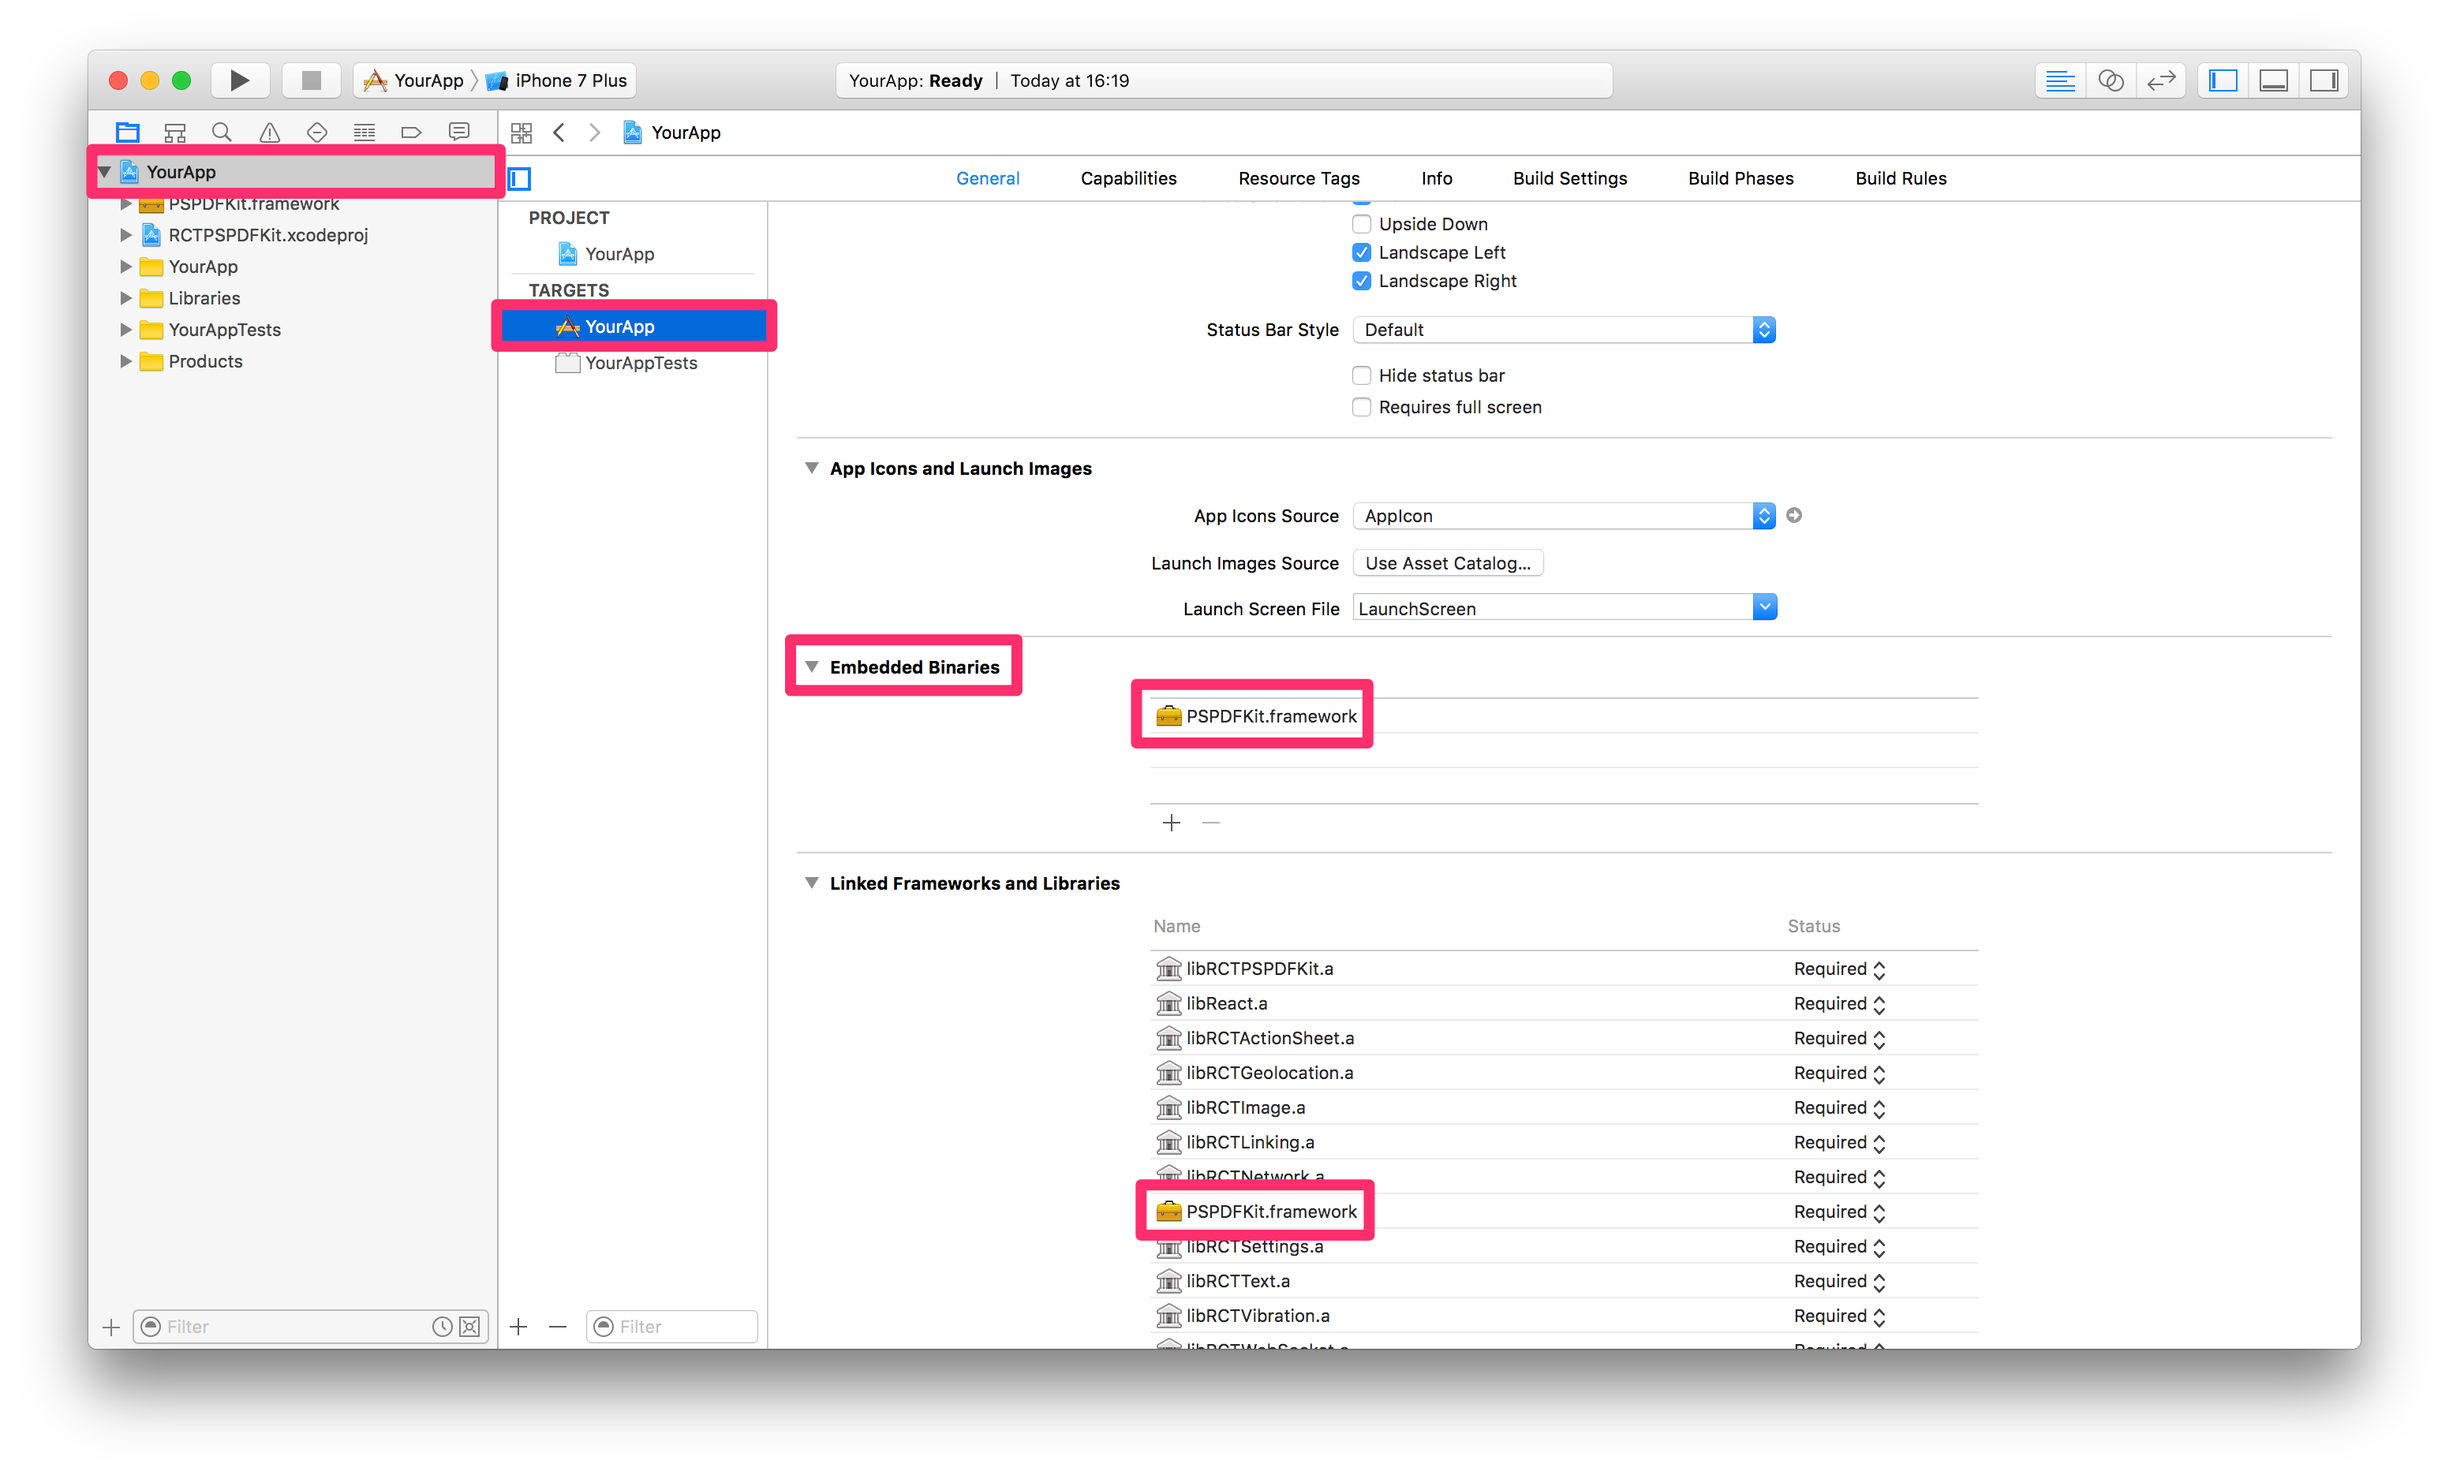
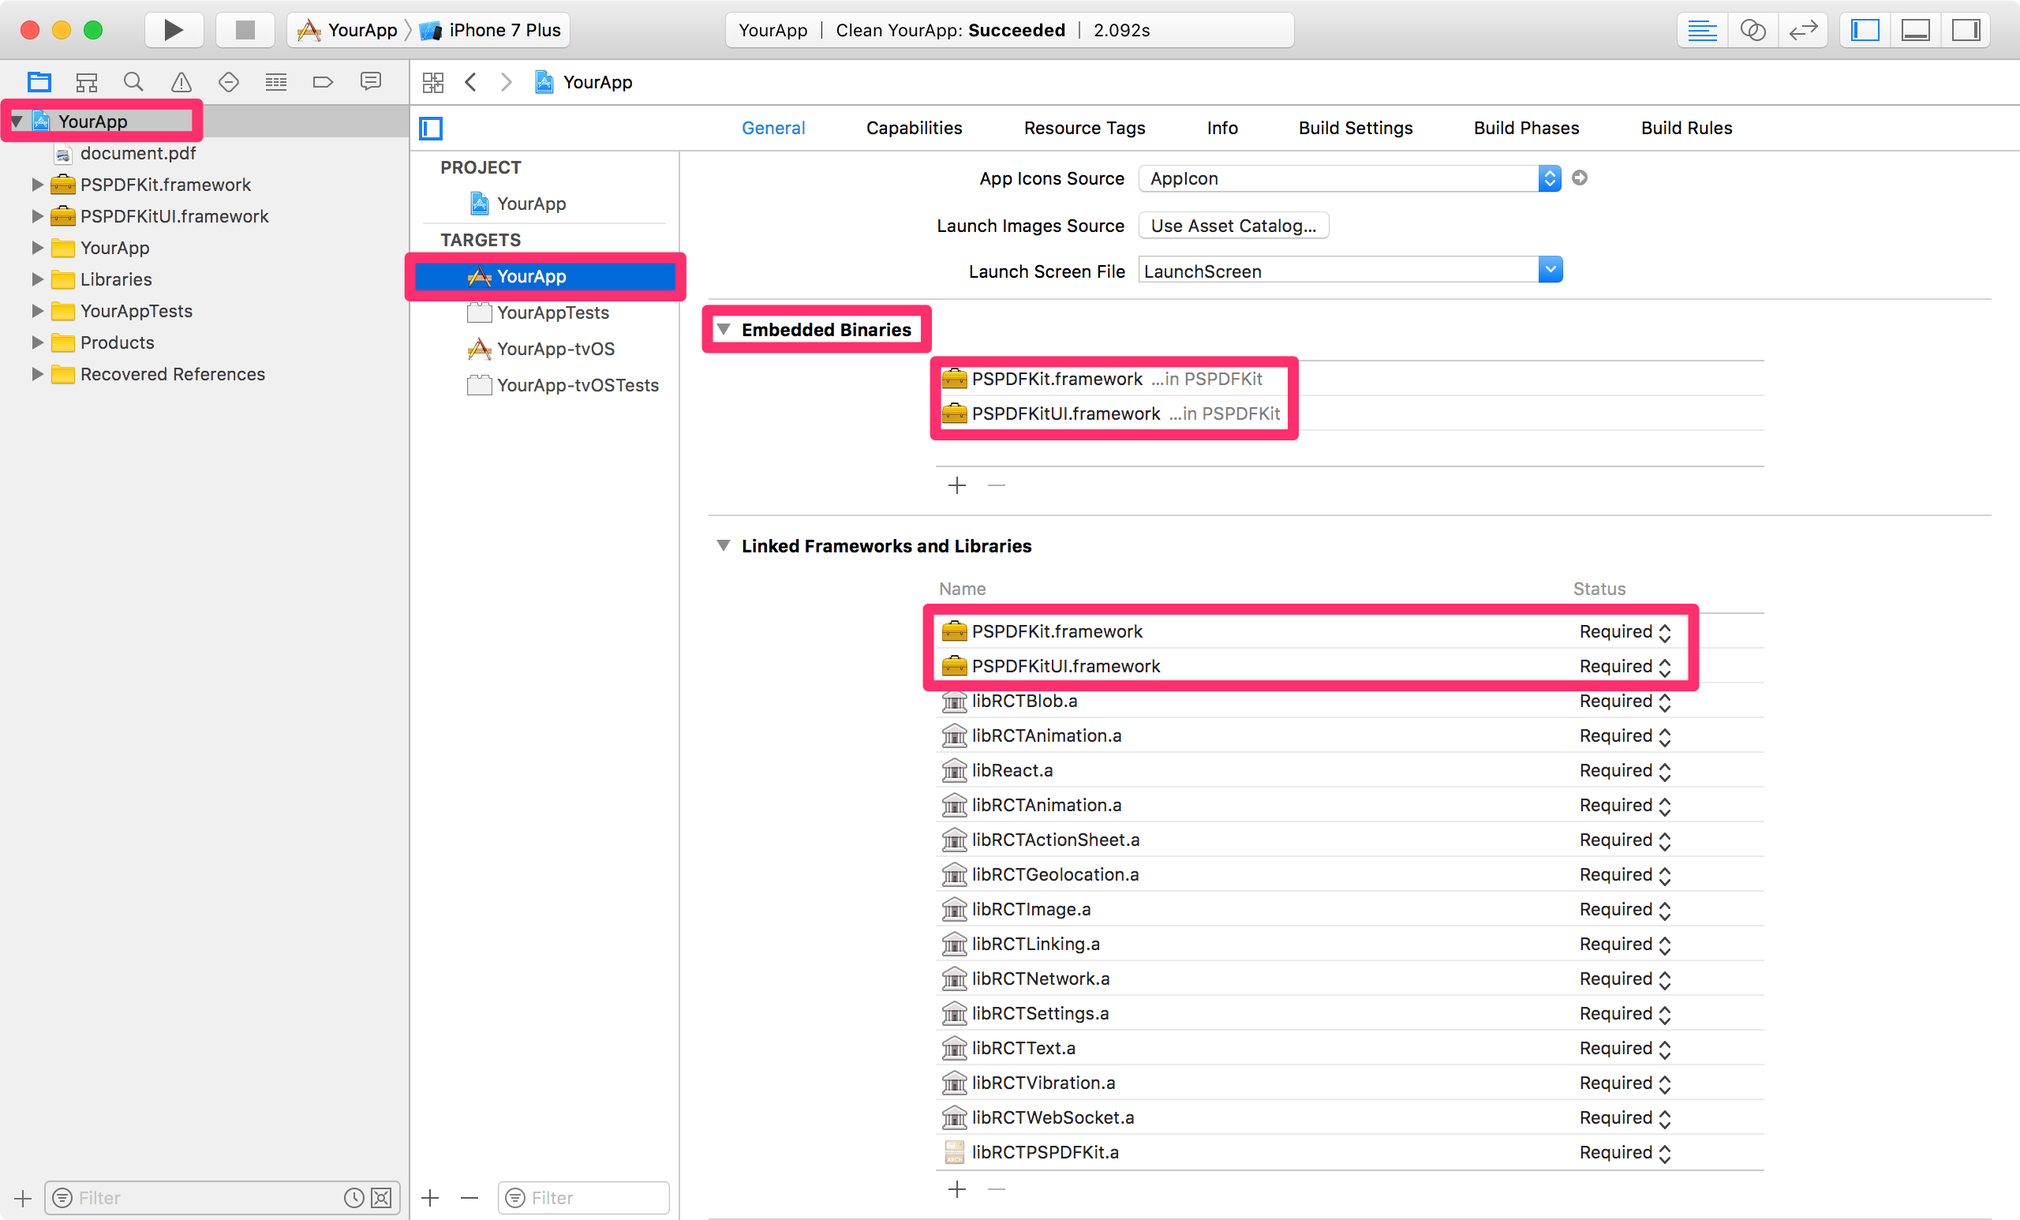
Update integration guides and screenshots

diff --git a/README.md b/README.md
@@ -5,22 +5,22 @@ See our [announcement blog post](https://pspdfkit.com/blog/2016/react-native-mod
 ### iOS
 
 #### Requirements
-- Xcode 8.3.3
-- PSPDFKit >= 6.9.3
+- Xcode 9
+- PSPDFKit >= 7.0.0
 - react-native >= 0.48.1
 
 #### Getting Started
 
 **Note:** If you want to integrate PSPDFKit using CocoaPods, use [these instructions](ios/cocoapods.md) instead.
 
-Let's create a simple app that integrates `PSPDFKit.framework` and uses the `react-native-pspdfkit` module.
+Let's create a simple app that integrates PSPDFKit and uses the `react-native-pspdfkit` module.
 
 1. Make sure `react-native-cli` is installed: `yarn global add react-native-cli`
 2. Create the app with `react-native init YourApp`.
 3. Step into your newly created app folder: `cd YourApp`
 4. Install `react-native-pspdfkit` from GitHub: `yarn add github:PSPDFKit/react-native`
 5. Link module `react-native-pspdfkit`: `react-native link react-native-pspdfkit` 
-6. Create the folder `ios/PSPDFKit` and copy `PSPDFKit.framework` into it.
+6. Create the folder `ios/PSPDFKit` and copy `PSPDFKit.framework` and `PSPDFKitUI.framework` into it.
 7. Open `ios/YourApp.xcodeproj` in Xcode: `open ios/YourApp.xcodeproj`
 8. Make sure the deployment target is set to 9.0 or higher:
 ![Deployment Target](screenshots/deployment-target.png)
@@ -28,7 +28,7 @@ Let's create a simple app that integrates `PSPDFKit.framework` and uses the `rea
 ![View Controller-Based Status Bar Appearance](screenshots/view-controller-based-status-bar-appearance.png)
 10. Link with the `libRCTPSPDFKit.a` static library (if `libRCTPSPDFKit.a` is already there but greyed out, delete it and link it again): 
 ![Linking Static Library](screenshots/linking-static-library.png)
-11. Embed `PSPDFKit.framework` by drag and dropping it into the "Embedded Binaries" section of the "YourApp" target (Select "Create groups"). This will also add it to the "Linked Framworks and Libraries" section:
+11. Embed `PSPDFKit.framework` and `PSPDFKitUI.framework` by drag and dropping it into the "Embedded Binaries" section of the "YourApp" target (Select "Create groups"). This will also add it to the "Linked Framworks and Libraries" section:
 ![Embedding PSPDFKit](screenshots/embedding-pspdfkit.png)
 12. Add a PDF by drag and dropping it into your Xcode project (Select "Create groups" and add to target "YourApp"). This will add the document to the "Copy Bundle Resources" build phase:
 ![Adding PDF](screenshots/adding-pdf.png)
@@ -102,7 +102,7 @@ PSPDFKit.present('document.pdf', {
   
 #### Running Catalog Project
 
-- Copy `PSPDFKit.framework` into the `PSPDFKit` directory.
+- Copy `PSPDFKit.framework` and `PSPDFKitUI.framework` into the `PSPDFKit` directory.
 - Install dependencies: `yarn install` in `samples/Catalog` directory. (Because of a [bug](https://github.com/yarnpkg/yarn/issues/2165) you may need to clean `yarn`'s cache with `yarn cache clean` before.)
 - Run the app with `react-native-cli`: `react-native run-ios`
 

diff --git a/ios/cocoapods.md b/ios/cocoapods.md
@@ -3,21 +3,21 @@
 ### CocoaPods integration
 
 #### Requirements
-- Xcode 8.3.3
-- PSPDFKit >=6.9.3
+- Xcode 9
+- PSPDFKit >=7.0.0
 - react-native >= 0.48.1
 - CocoaPods >= 1.3.1
 
 #### Getting Started
 
-Lets create a simple app that integrates `PSPDFKit.framework` using CocoaPods.
+Lets create a simple app that integrates PSPDFKit using CocoaPods.
 
 1. Make sure `react-native-cli` is installed: `yarn global add react-native-cli`
 2. Create the app with `react-native init YourApp`.
 3. Step into your newly created app folder: `cd YourApp`
 4. Install `react-native-pspdfkit` from GitHub: `yarn add github:PSPDFKit/react-native`
 5. IMPORTANT: Do not link module react-native-pspdfkit: Do not use react-native link react-native-pspdfkit
-6. Create the folder `ios/PSPDFKit` and copy `PSPDFKit.framework` into it.
+6. Create the folder `ios/PSPDFKit` and copy `PSPDFKit.framework` and `PSPDFKitUI.framework` into it.
 7. Open ios/YourApp.xcodeproj in Xcode: open ios/YourApp.xcodeproj
 8. Make sure the deployment target is set to 9.0 or higher: 
 ![Deployment Target](../screenshots/deployment-target.png)
@@ -55,12 +55,12 @@ end
 
 13. Run `pod install`
 14. Open the newly created workspace: `YourApp.workspace`
-15. Copy `PSPDFKit.framework` into the Pods folder: `YourApp/ios/Pods`
+15. Copy `PSPDFKit.framework` and `PSPDFKitUI.framework` into the Pods folder: `YourApp/ios/Pods`
 16. Drag and drop it from the Finder into the `RCTPSPDFKit` group:
 ![Deployment Target](../screenshots/embedding-pspdfkit-pods.png)
 17. Add it to the `react-native-pspdfkit` framework:
 ![Deployment Target](../screenshots/adding-to-react-native-pspdfkit.png)
-18. Embed `YourApp/ios/PSPDFKit/PSPDFKit.framework` (not the copy from `YourApp/ios/Pods/PSPDFKit.framework`) by drag and dropping it into the "Embedded Binaries" section of the "YourApp" target (Select "Create groups"). This will also add it to the "Linked Frameworks and Libraries" section:
+18. Embed `YourApp/ios/PSPDFKit/PSPDFKit.framework` and `YourApp/ios/PSPDFKit/PSPDFKitUI.framework` (not the copies from `YourApp/ios/Pods/`) by drag and dropping it into the "Embedded Binaries" section of the "YourApp" target (Select "Create groups"). This will also add it to the "Linked Frameworks and Libraries" section:
 ![Embedding PSPDFKit](../screenshots/embedding-pspdfkit.png)
 19. Add a PDF by drag and dropping it into your Xcode project (Select "Create groups" and add to target "YourApp"). This will add the document to the "Copy Bundle Resources" build phase: 
 ![Adding PDF](../screenshots/adding-pdf.png)
